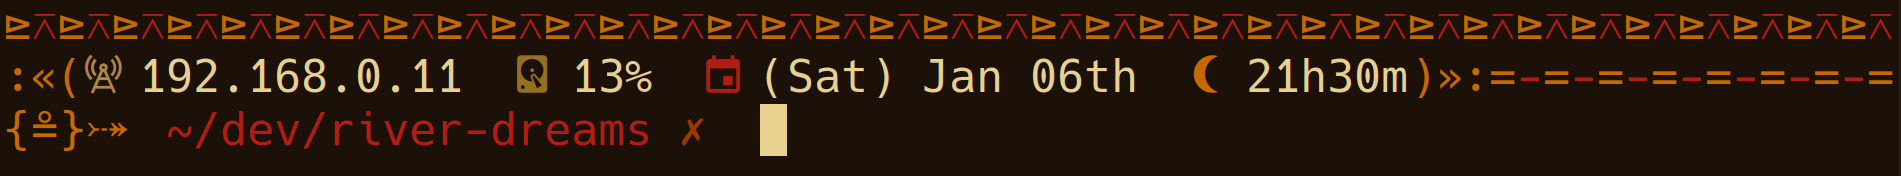
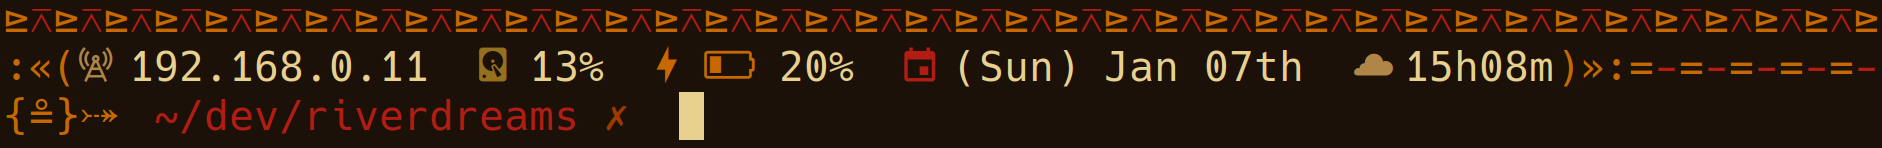
rename files

Changed region(s): [[0.0, 0.2973, 1.0, 0.9459], [0.0, 0.0541, 1.0, 0.2432], [0.0, 0.8919, 0.0616, 0.9189]]

diff --git a/README.md b/README.md
@@ -1,8 +1,8 @@
-# river-dreams
+# riverdreams
 
 ## About
 
-A tribal-inspired ZSH theme for Linux that displays:
+A tribal inspired ZSH theme for Linux that displays:
 
 - Your local IPV4 address.
 - Your disk use percentage.
@@ -36,7 +36,7 @@ sudo make install clean;
 
 ```sh
 setopt promptsubst;
-PROMPT='$(river-dreams)';
+PROMPT='$(riverdreams)';
 ```
 
 - Reopen `zsh`.
@@ -51,12 +51,12 @@ sudo make uninstall;
 
 ## Help
 
-You can ask for help related to this project through its [issues page](https://github.com/skippyr/river-dreams/issues).
+You can ask for help related to this project through its [issues page](https://github.com/skippyr/riverdreams/issues).
 
 ## Contributing
 
 This project is open to receive contributions.  You can send code contributions
-to be reviewed through its [pull requests page](https://github.com/skippyr/river-dreams/pulls).
+to be reviewed through its [pull requests page](https://github.com/skippyr/riverdreams/pulls).
 
 By contributing to this project, you agree to use the same copyright used by it.
 
